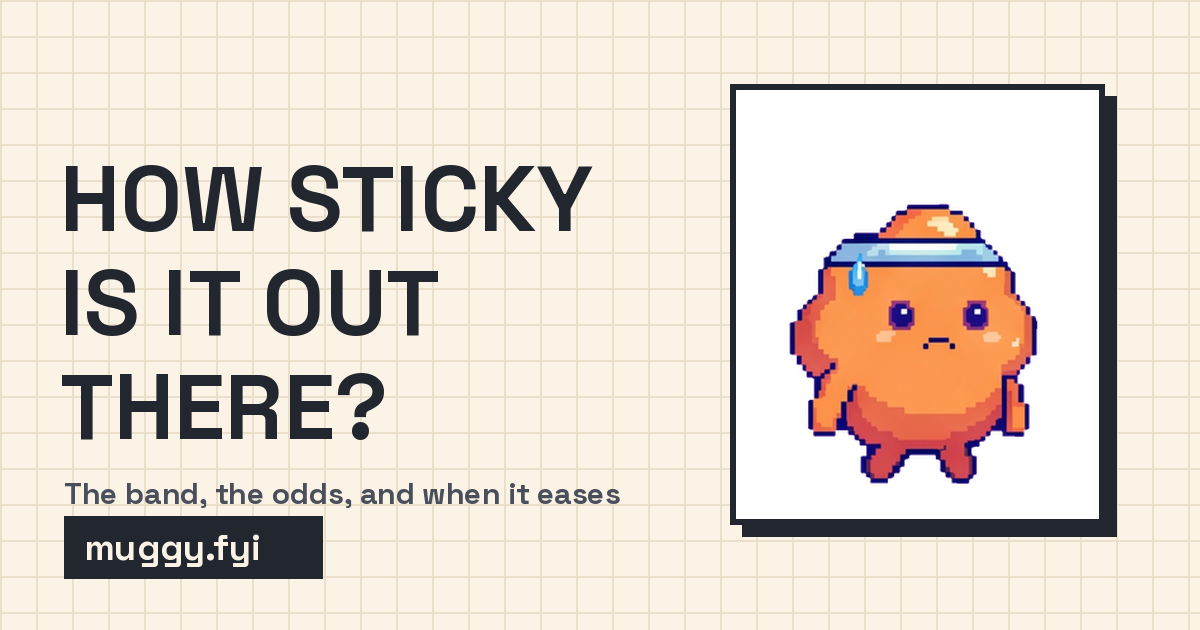
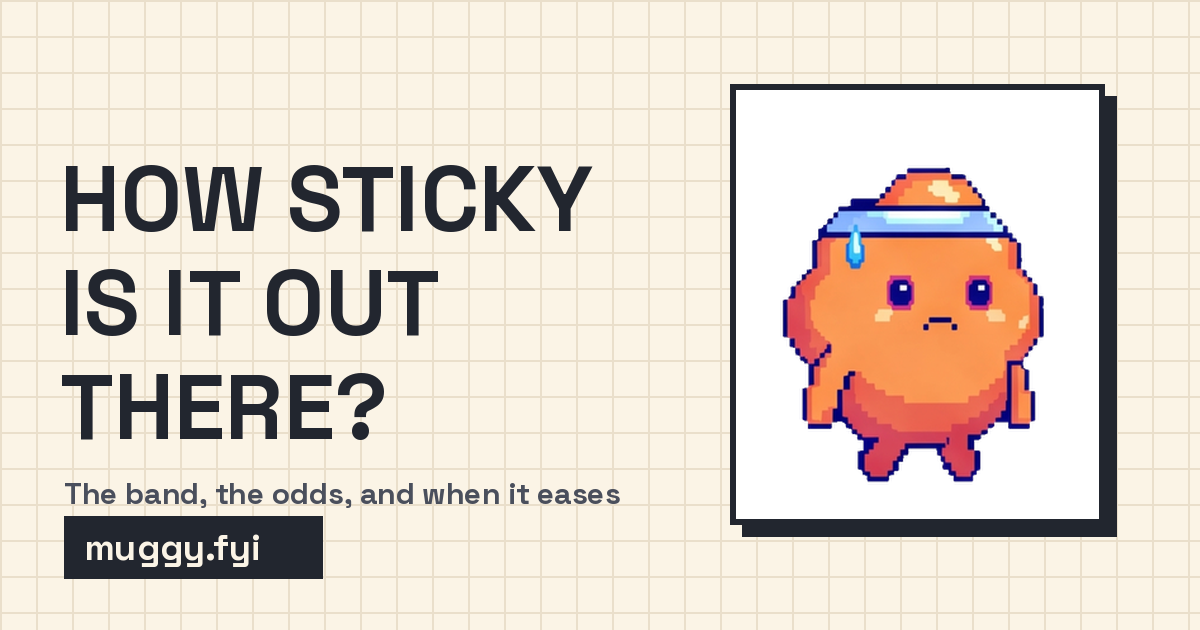
The second cohort: one artist's hand across all six bands
A regenerated spritesheet replaces the first: same six bands, six frames
each, but drawn as one family -- and the miserable row is finally a
character walking and crying through all six frames instead of a
slideshow that ends on an empty air-conditioner scene.

The sheet arrived on white, which breaks the chroma key: sweat drops,
the sun hat and the palest body all sit within touching distance of the
plate. The slicer now chooses its strategy from the measured plate --
saturated plates key by colour distance as before, white plates key by
connectivity, background being whatever is white AND connected to the
border, so the interior whites survive because the outlines seal them
in. Icons, share banners and the design canvas all regenerated from the
new frames.

Claude-Session: https://claude.ai/code/session_018EW29irikC3y8wdG3gXtUG

Changed region(s): [[0.6475, 0.2413, 0.8942, 0.7841]]

diff --git a/tools/slice-sprites.py b/tools/slice-sprites.py
@@ -1,13 +1,17 @@
 """Slice the cloud spritesheet into per-band animation strips.
 
-sheet-cloud.jpg is shot on magenta: 6 rows (one per comfort band) x 6 frames.
-The key lifts cleanly; the only care needed is eroding the JPEG fringe so no
-magenta halo survives the downscale.
+sheet-cloud.jpg: 6 rows (one per comfort band) x 6 frames. The key strategy
+depends on the plate. A saturated plate (magenta) separates by colour
+distance. A white plate cannot: sweat drops, hats and the palest bodies sit
+within touching distance of white, so instead background is whatever is
+white-ish AND connected to the border — interior whites survive because the
+characters' outlines seal them in.
 
-Frames are bottom-aligned on a common ground line and centred on their own
-bounding box, so feet stay planted while accessories overhang.
+Frames are bottom-aligned on a common ground line and centred on the body,
+so feet stay planted while accessories overhang.
 """
 from PIL import Image, ImageFilter
+from scipy import ndimage
 import numpy as np
 import json
 import os
@@ -55,8 +59,17 @@ a = np.asarray(src).astype(int)
 # clusters under 40, with almost nothing in between.
 BG = np.median(np.concatenate([a[0:8].reshape(-1, 3), a[-8:].reshape(-1, 3),
                                a[:, 0:8].reshape(-1, 3), a[:, -8:].reshape(-1, 3)]), axis=0)
-fg = np.linalg.norm(a - BG, axis=2) > 60
-print(f'plate {tuple(int(v) for v in BG)}')
+if BG.min() > 235:
+    # White plate: key by connectivity, not colour alone.
+    bgish = np.linalg.norm(a - BG, axis=2) < 30
+    labels, _ = ndimage.label(bgish)
+    border = np.unique(np.concatenate([labels[0], labels[-1], labels[:, 0], labels[:, -1]]))
+    border = border[border != 0]
+    fg = ~np.isin(labels, border)
+    print(f'plate {tuple(int(v) for v in BG)} (white → border flood fill)')
+else:
+    fg = np.linalg.norm(a - BG, axis=2) > 60
+    print(f'plate {tuple(int(v) for v in BG)} (chroma key)')
 
 # Cells come from the gutters in the alpha projection rather than a fixed grid:
 # accessories (sun hats, wind lines, the heatwave sign) make the columns uneven.
